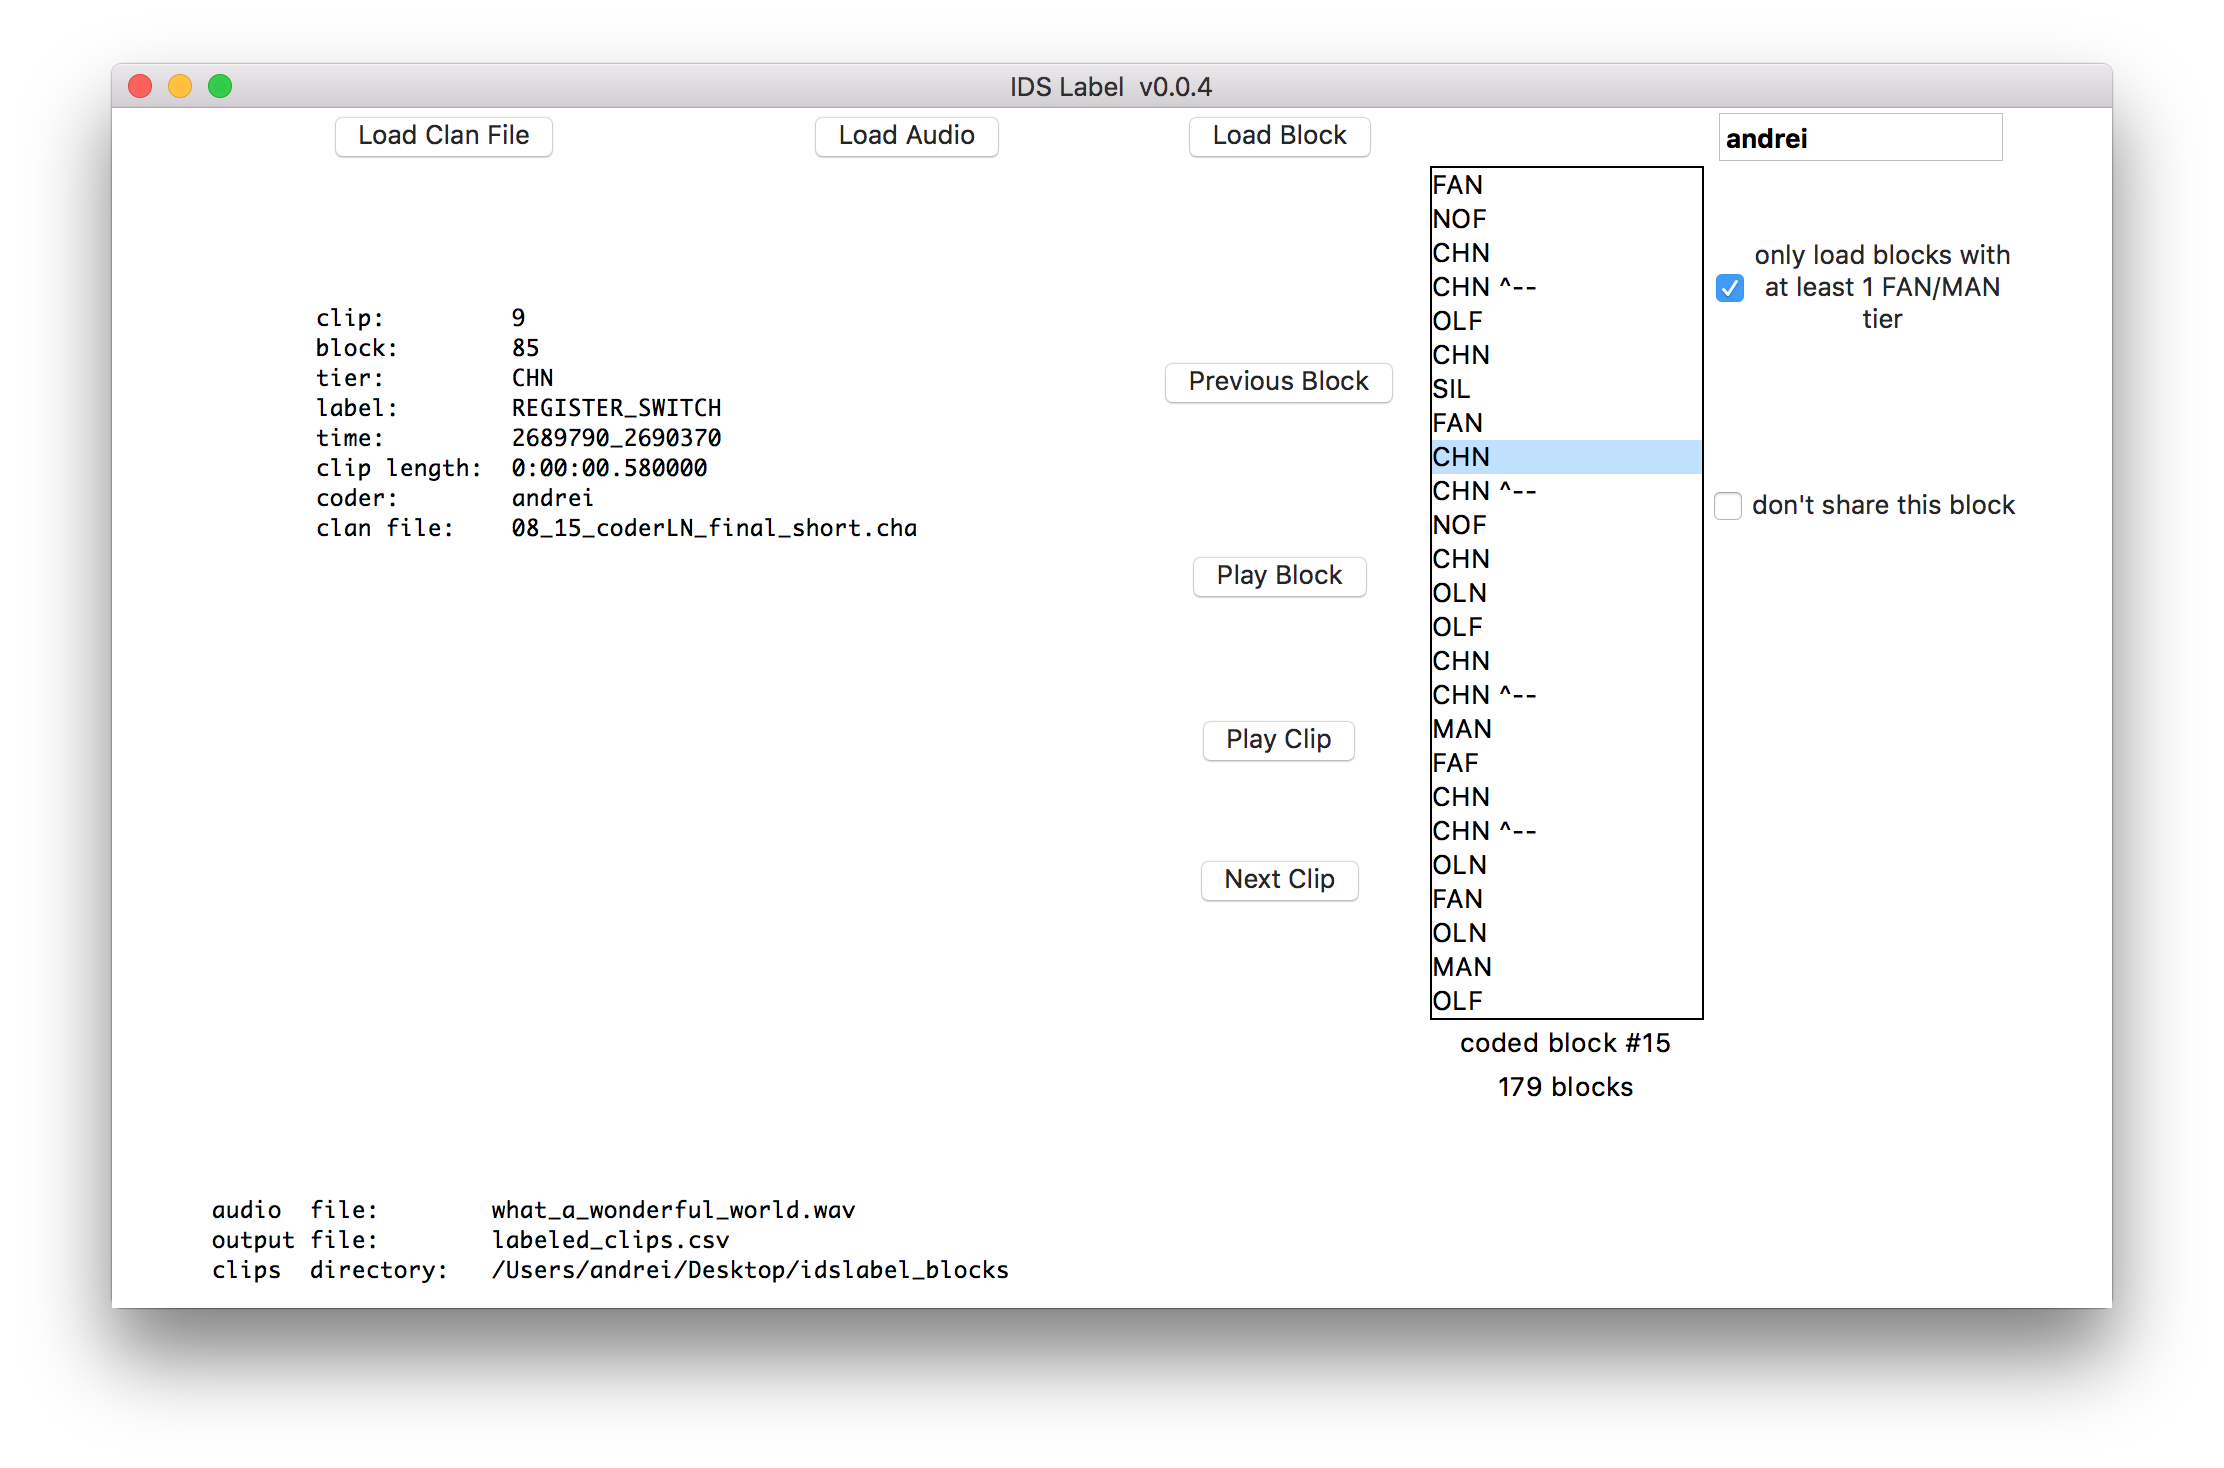
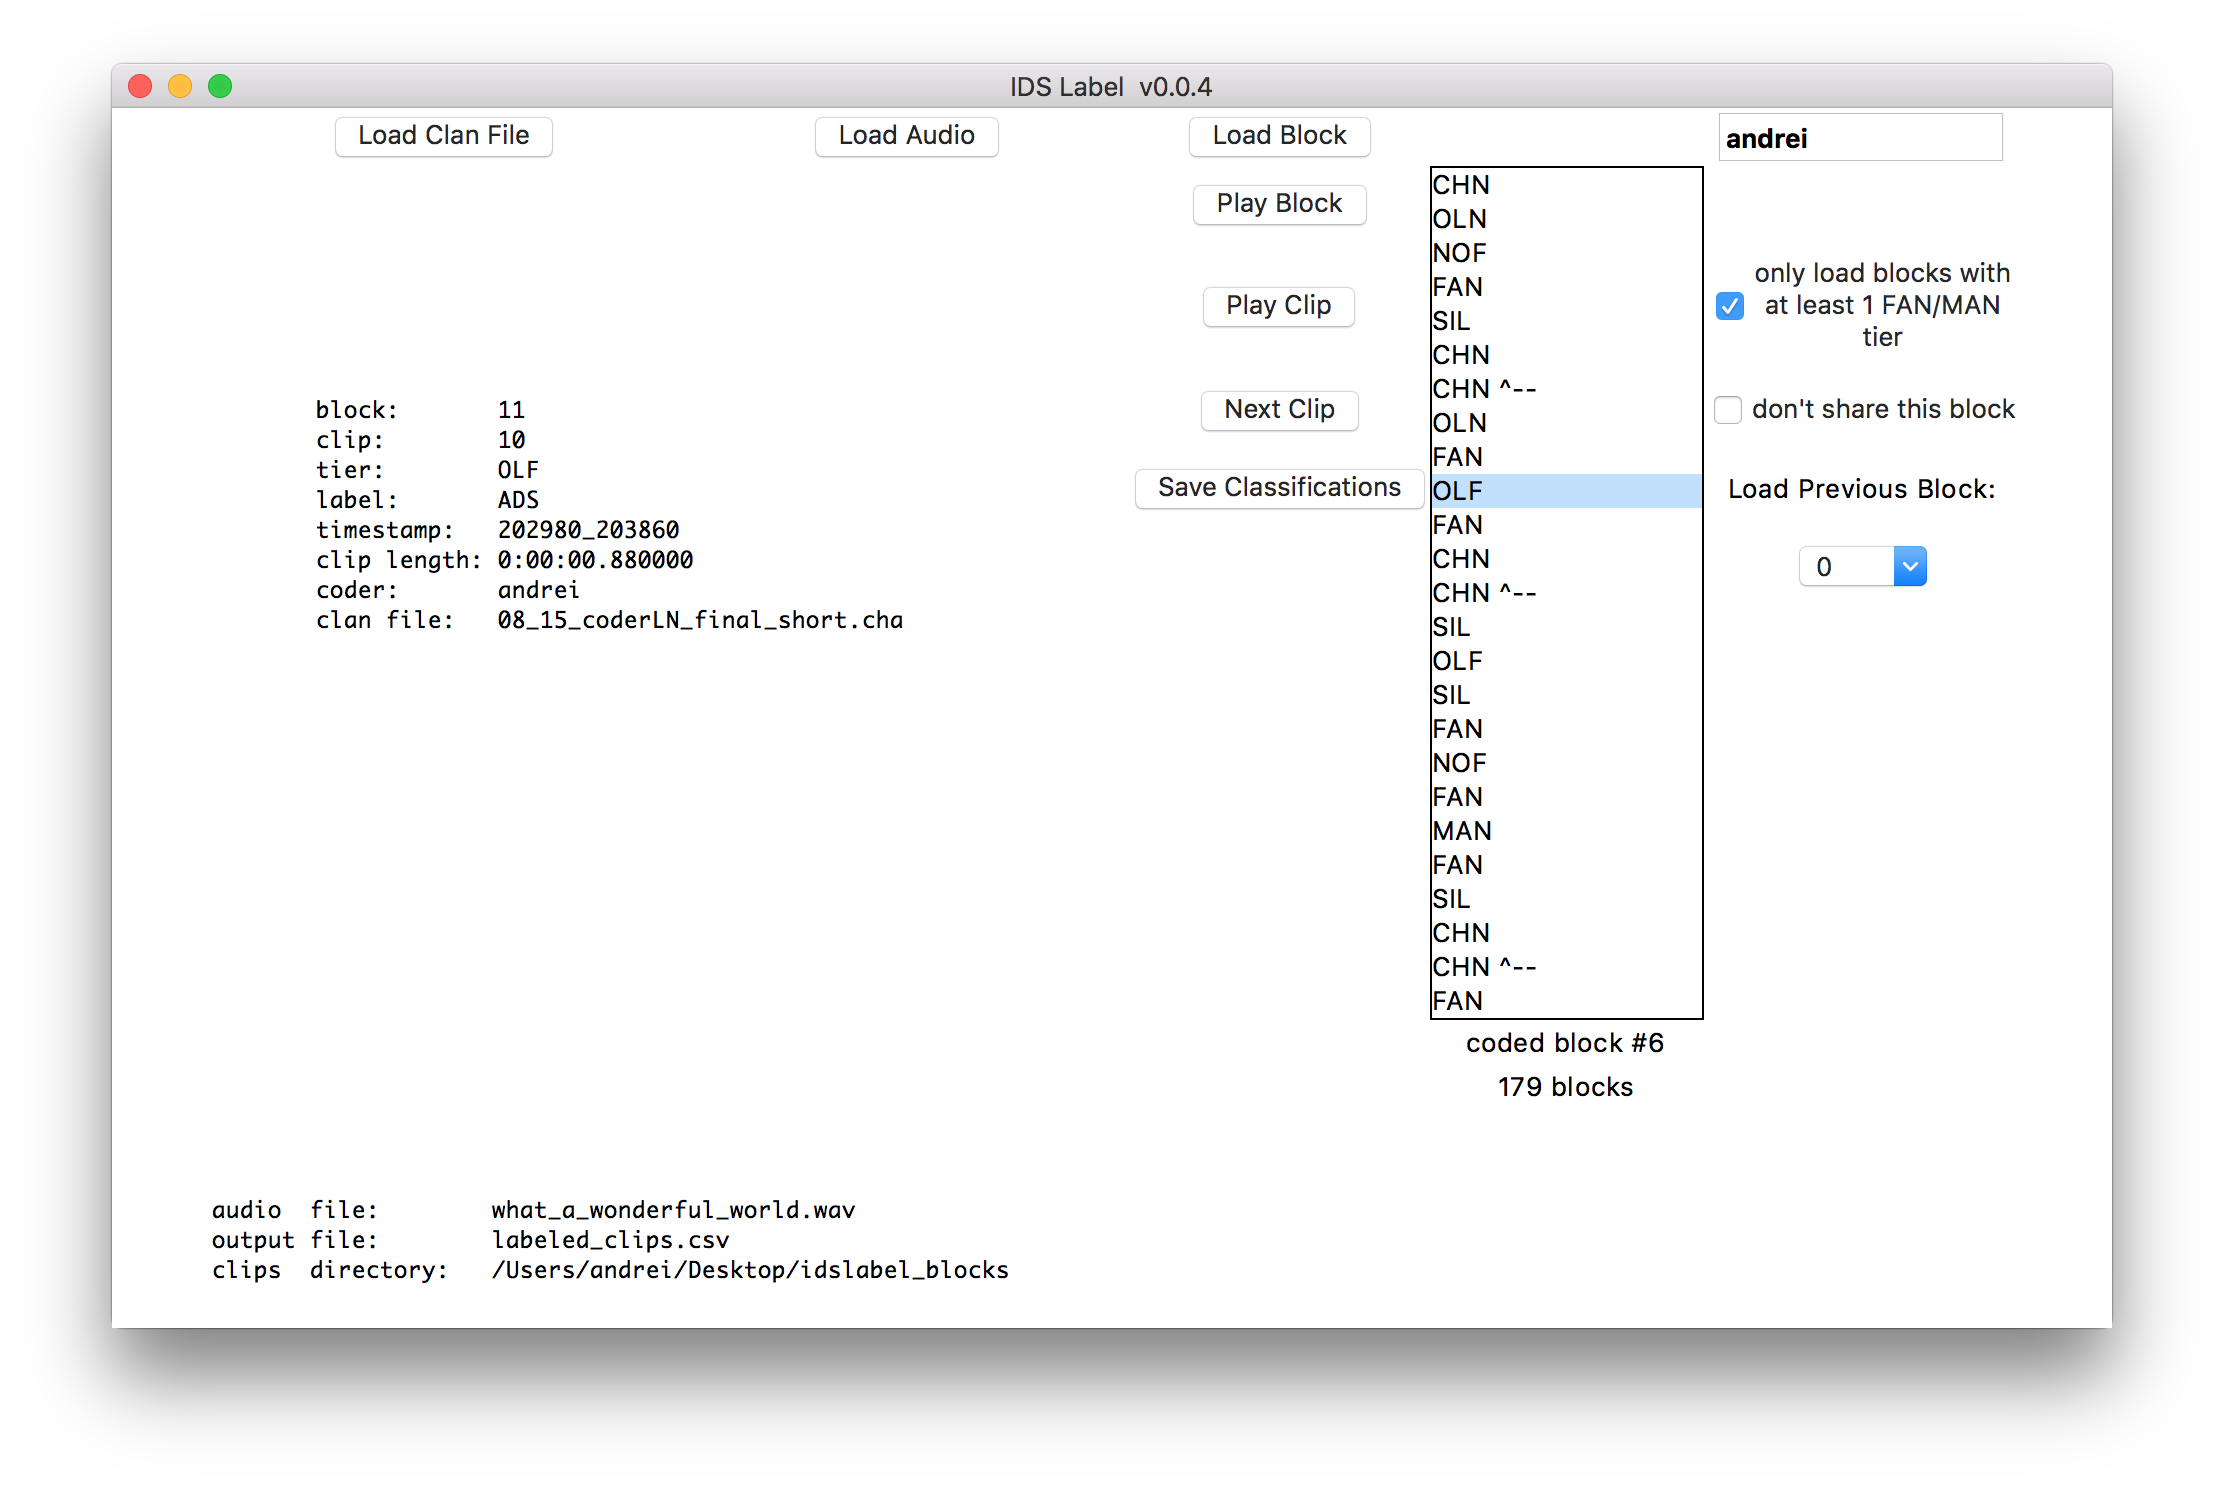
add previous block menu, update screenshot

diff --git a/idslabel.py b/idslabel.py
@@ -71,7 +71,7 @@ class MainWindow:
 
         self.root = master                          # main GUI context
         self.root.title("IDS Label  v"+version)      # title of window
-        self.root.geometry("1000x600")              # size of GUI window
+        self.root.geometry("1000x610")              # size of GUI window
         self.main_frame = Frame(root)               # main frame into which all the Gui components will be placed
 
         self.main_frame.bind("<Key>", self.key_select)
@@ -161,15 +161,15 @@ class MainWindow:
         self.load_audio_button.grid(row=0, column=1)
         self.load_rand_block_button.grid(row=0, column=2)
 
-        self.load_previous_block_button.grid(row=1, column=2, rowspan=2)
-        self.play_block_button.grid(row=2, column=2, rowspan=2)
-        self.play_clip_button.grid(row=3, column=2, rowspan=2)
-        self.next_clip_button.grid(row=4, column=2, rowspan=2)
-        self.output_classifications_button.grid(row=7, column=2, rowspan=2)
+        #self.load_previous_block_button.grid(row=1, column=2)
+        self.play_block_button.grid(row=1, column=2)
+        self.play_clip_button.grid(row=2, column=2)
+        self.next_clip_button.grid(row=3, column=2)
+        self.output_classifications_button.grid(row=4, column=2)
         #self.load_classifications_button.grid(row=8, column=2, rowspan=2)
 
         self.block_list = Listbox(self.main_frame, width=15, height=25)
-        self.block_list.grid(row=1, column=3, rowspan=5)
+        self.block_list.grid(row=1, column=3, rowspan=24)
 
         self.block_list.bind('<<ListboxSelect>>', self.update_curr_clip)
         self.block_list.bind("<FocusIn>", self.reset_frame_focus)
@@ -177,7 +177,7 @@ class MainWindow:
 
 
         self.curr_clip_info = Text(self.main_frame, width=50, height=10)
-        self.curr_clip_info.grid(row=1, column=0, rowspan=3, columnspan=2)
+        self.curr_clip_info.grid(row=3, column=0, rowspan=8, columnspan=2)
 
 
         self.codername_entry = Entry(self.main_frame, width=15, font="-weight bold")
@@ -206,7 +206,7 @@ class MainWindow:
         self.block_condition_var = IntVar()
         self.block_condition_button = Checkbutton(self.main_frame, text="only load blocks with\nat least 1 FAN/MAN\ntier", variable=self.block_condition_var)
         self.block_condition_button.select()
-        self.block_condition_button.grid(row=1, column=4)
+        self.block_condition_button.grid(row=2, column=4)
 
         self.dont_share_var = IntVar()
         self.dont_share_button = Checkbutton(self.main_frame,
@@ -214,10 +214,20 @@ class MainWindow:
                                              variable=self.dont_share_var,
                                              command=self.set_curr_block_dontshare)
 
-        self.dont_share_button.grid(row=2, column=4)
+        self.dont_share_button.grid(row=3, column=4)
 
         self.loaded_block_history = []
         self.on_first_block = False
+
+        self.previous_block_label = Label(self.main_frame, text="Load Previous Block:")
+        self.previous_block_label.grid(row=4, column=4)
+
+        self.previous_block_var = IntVar(self.main_frame)
+        self.previous_block_menu = OptionMenu(self.main_frame,
+                                              self.previous_block_var,
+                                              tuple(self.loaded_block_history))
+
+        self.previous_block_menu.grid(row=5, column=4)
 
         self.classification_output = ""
 
@@ -468,7 +478,7 @@ class MainWindow:
                                        text=str(len(conversation_blocks))+\
                                        " blocks")
 
-        self.block_count_label.grid(row=7, column=3, columnspan=1)
+        self.block_count_label.grid(row=27, column=3, columnspan=1)
 
         self.create_random_block_range()
 
@@ -631,7 +641,7 @@ class MainWindow:
                 self.block_list.insert(index, element.clip_tier)
 
         self.coded_block_label = Label(self.main_frame, text="coded block #{}".format(self.current_block_index + 1))
-        self.coded_block_label.grid(row=6, column=3)
+        self.coded_block_label.grid(row=26, column=3)
 
         self.current_clip = self.current_block.clips[0]
 
@@ -664,6 +674,8 @@ class MainWindow:
         if self.current_block_index not in self.loaded_block_history:
             self.loaded_block_history.append(self.current_block_index)
 
+        self.sort_and_prune_block_history()
+
         self.slice_block(self.current_block)
 
         for index, element in enumerate(self.randomized_blocks[self.current_block_index].clips):
@@ -673,7 +685,7 @@ class MainWindow:
                 self.block_list.insert(index, element.clip_tier)
 
         self.coded_block_label = Label(self.main_frame, text="coded block #{}".format(self.current_block_index + 1))
-        self.coded_block_label.grid(row=6, column=3)
+        self.coded_block_label.grid(row=26, column=3)
 
         self.current_clip = self.current_block.clips[0]
 
@@ -681,6 +693,14 @@ class MainWindow:
         self.block_list.selection_set(0)
 
         self.update_curr_clip_info()
+
+    def sort_and_prune_block_history(self):
+        self.loaded_block_history = list(set(self.loaded_block_history))
+        self.loaded_block_history.sort()
+
+        self.previous_block_menu = apply(OptionMenu, (self.main_frame, self.previous_block_var) + tuple(self.loaded_block_history))
+        self.previous_block_menu.grid(row=5, column=4)
+
 
     def move_currblock_forward(self):
         if self.current_block_index is None:
@@ -705,8 +725,8 @@ class MainWindow:
         clanfile    = "clan file:   {}\n".format(self.current_clip.clan_file)
 
         self.curr_clip_info.insert('1.0',
-                                    clip+\
                                     block+\
+                                    clip+\
                                     tier+\
                                     label+\
                                     time+\
@@ -939,7 +959,7 @@ class MainWindow:
 
     def print_paths(self):
         self.paths_text = Text(self.main_frame, width=65, pady=40)
-        self.paths_text.grid(row=8, column=0, columnspan=2)
+        self.paths_text.grid(row=28, column=0, rowspan=4, columnspan=2)
 
         if not self.audio_file:
             audiofile = None
